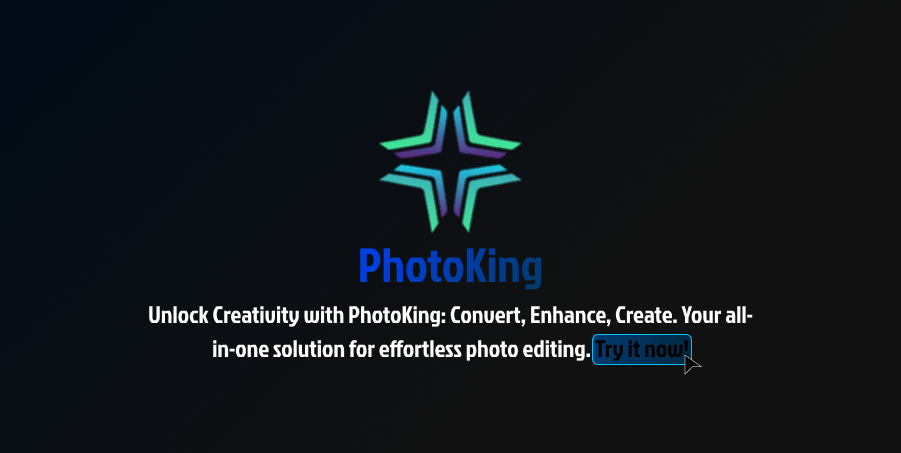
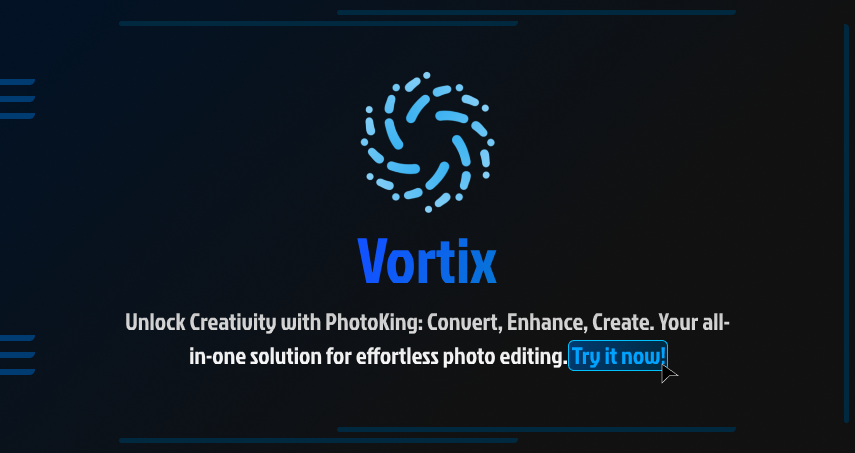
update

diff --git a/public/home.html b/public/home.html
@@ -1,31 +1,31 @@
 <!DOCTYPE html>
 <html lang="en">
     <head>
-            <meta charset="UTF-8">
-            <meta name="viewport" content="width=device-width, initial-scale=1.0">
-            <meta name="description" content="Experience seamless photo editing with PhotoKing. Convert formats, enhance quality, create pixel art, and more. Try it today!" />
-            <meta name="keywords" content="kaywords">
-            <link rel = "icon" href ="/photoking/public/assets/PhotoKing_Logo.png" type = "image/x-icon">
-            <meta property="og:type" content="iigreenfoxyt.github.io/photoking" />
-            <meta property="og:url" content="Experience seamless photo editing with PhotoKing. Convert formats, enhance quality, create pixel art, and more. Try it today!" />
-            <meta property="og:image" content="/photoking/public/assets/PhotoKing_Logo.png">
-            <meta name="theme-color" content="#05ECEC">
-            <meta name="twitter:card" content="summary_large_image">
-            <link rel="stylesheet" href="https://cdnjs.cloudflare.com/ajax/libs/font-awesome/5.15.3/css/all.min.css"/>
-            <link rel="stylesheet" href="main.css">
-            <link href="https://fonts.googleapis.com/css?family=Montserrat:500&display=swap" rel="stylesheet">
-            <link href="http://maxcdn.bootstrapcdn.com/font-awesome/4.1.0/css/font-awesome.min.css" rel="stylesheet">
-            <script src="https://cdn.jsdelivr.net/npm/@popperjs/core@2.10.2/dist/umd/popper.min.js" integrity="sha384-7+zCNj/IqJ95wo16oMtfsKbZ9ccEh31eOz1HGyDuCQ6wgnyJNSYdrPa03rtR1zdB" crossorigin="anonymous"></script>
-            <script src="https://cdn.jsdelivr.net/npm/bootstrap@5.1.3/dist/js/bootstrap.min.js" integrity="sha384-QJHtvGhmr9XOIpI6YVutG+2QOK9T+ZnN4kzFN1RtK3zEFEIsxhlmWl5/YESvpZ13" crossorigin="anonymous"></script>
-    
-        <title>PhotoKing Beta - Home</title>
+        <meta charset="UTF-8">
+        <meta name="viewport" content="width=device-width, initial-scale=1.0">
+        <meta name="description" content="Experience seamless photo editing with Vortix. Convert formats, enhance quality, create pixel art, and more. Try it today!" />
+        <meta name="keywords" content="kaywords">
+        <link rel = "icon" href ="/vortix/public/assets/Vortix_icon.png" type = "image/x-icon">
+        <meta property="og:type" content="iigreenfoxyt.github.io/vortix" />
+        <meta property="og:url" content="Experience seamless photo editing with Vortix. Convert formats, enhance quality, create pixel art, and more. Try it today!" />
+        <meta property="og:image" content="/vortix/public/assets/Banner.png">
+        <meta name="theme-color" content="#05ECEC">
+        <meta name="twitter:card" content="summary_large_image">
+        <link rel="stylesheet" href="https://cdnjs.cloudflare.com/ajax/libs/font-awesome/5.15.3/css/all.min.css"/>
+        <link rel="stylesheet" href="main.css">
+        <link href="https://fonts.googleapis.com/css?family=Montserrat:500&display=swap" rel="stylesheet">
+        <link href="http://maxcdn.bootstrapcdn.com/font-awesome/4.1.0/css/font-awesome.min.css" rel="stylesheet">
+        <script src="https://cdn.jsdelivr.net/npm/@popperjs/core@2.10.2/dist/umd/popper.min.js" integrity="sha384-7+zCNj/IqJ95wo16oMtfsKbZ9ccEh31eOz1HGyDuCQ6wgnyJNSYdrPa03rtR1zdB" crossorigin="anonymous"></script>
+        <script src="https://cdn.jsdelivr.net/npm/bootstrap@5.1.3/dist/js/bootstrap.min.js" integrity="sha384-QJHtvGhmr9XOIpI6YVutG+2QOK9T+ZnN4kzFN1RtK3zEFEIsxhlmWl5/YESvpZ13" crossorigin="anonymous"></script>
+        
+        <title>Vortix Beta - Home</title>
     </head>
     <body>
     
         <header>
             <div class="wrapper">
                 <div class="logo">
-                    <a href="index.html"><img src="/photoking/public/assets/PhotoKing_Logo.png" alt="PhotoKing_Logo"></a>
+                    <a href="index.html"><img src="/vortix/public/assets/Vortix_Logo.png" alt="Vortix_Logo"></a>
                 </div>
                 <div class="navbar">
                     <div class="close-nav"><button>×</button></div>
@@ -47,9 +47,13 @@
         <!-- Content -->
         <div class="banner">
             <div class="content">
-                <h1>PhotoKing</h1>
+                <h1>Vortix</h1>
                 <h3>Experience seamless photo editing with PhotoKing. Convert formats, enhance quality, create pixel art, and more.</h3>
+                <a href="#description"><button class="glow-on-hover" type="button">See More!</button></a>
             </div>
+        </div>
+        <div id="description" class="bx">
+            <h1>info</h1>
         </div>
 
         <!-- js sources important -->

diff --git a/public/main.css b/public/main.css
@@ -5,6 +5,7 @@
 *::after {
   box-sizing: border-box;
   line-height: 1.5em;
+  scroll-behavior: smooth;
 }
 
 body {
@@ -258,53 +259,127 @@ button {
   }
 
   .banner {
-    background: linear-gradient(to bottom right, #080025, #1a1a1a);
-    color: white ;
+    color: white;
     width: 100%;
     height: 500px;
+    display: flex;
+    justify-content: center;
     align-items: center;
     text-align: center;
-    position: absolute;
-    z-index: -1;
-    animation: gradientMove 20s linear infinite;
-  }
-  
-  @keyframes gradientMove {
-    0%, 100% {
-      background: linear-gradient(to bottom right, #080025, #1a1a1a);
-    }
-    25% {
-      background: linear-gradient(to bottom right, #1a1a1a, #080025);
-    }
-    50% {
-      background: linear-gradient(to bottom right, #1a1a1a, #080025);
-    }
-    75% {
-      background: linear-gradient(to bottom right, #080025, #1a1a1a);
-    }
-  }
-  
-  @keyframes blurBackground {
-    0%, 100% {
-      backdrop-filter: blur(10px);
-    }
-    25% {
-      backdrop-filter: blur(5px);
-    }
-    50% {
-      backdrop-filter: blur(15px);
-    }
-    75% {
-      backdrop-filter: blur(5px);
-    }
-  }
-  
+    background: linear-gradient(320deg, #01314d, #1c1e20);
+    background-size: 400% 400%;
 
+    -webkit-animation: MoveingColors 20s ease infinite;
+    -moz-animation: MoveingColors 20s ease infinite;
+    animation: MoveingColors 10s ease infinite;
+  }
+  
+  @-webkit-keyframes MoveingColors {
+    0%{background-position:0% 2%}
+    50%{background-position:100% 99%}
+    100%{background-position:0% 2%}
+}
+@-moz-keyframes MoveingColors {
+    0%{background-position:0% 2%}
+    50%{background-position:100% 99%}
+    100%{background-position:0% 2%}
+}
+@keyframes MoveingColors {
+    0%{background-position:0% 2%}
+    50%{background-position:100% 99%}
+    100%{background-position:0% 2%}
+}
+  
+  .content {
+    max-width: 800px;
+    padding: 2rem;
+    text-align: center;
+  }
+  
   .content h1 {
-    padding-top: 10rem;
+    margin: 0;
+    padding-top: 2rem;
+    font-size: 3rem;
+  }
+  
+  .content h3 {
+    margin: 0;
+    padding-top: 1rem;
+    font-size: 1.5rem;
   }
 
-  .content h3 {
-    width: 580px;
-    margin-left: 13rem;
-  }
+
+
+  .glow-on-hover {
+    width: 220px;
+    height: 50px;
+    border: none;
+    outline: none;
+    color: #fff;
+    background: #111;
+    cursor: pointer;
+    position: relative;
+    z-index: 0;
+    border-radius: 10px;
+}
+
+.glow-on-hover:before {
+    content: '';
+    background: linear-gradient(45deg, #0058fc, #0099ff, #00375c, #48ff00, #00ffd5, #002bff, #7a00ff, #ff00c8, #ff0000);
+    position: absolute;
+    top: -2px;
+    left:-2px;
+    background-size: 400%;
+    z-index: -1;
+    filter: blur(5px);
+    width: calc(100% + 4px);
+    height: calc(100% + 4px);
+    animation: glowing 20s linear infinite;
+    opacity: 0;
+    transition: opacity .3s ease-in-out;
+    border-radius: 10px;
+}
+
+.glow-on-hover:active {
+    color: #000
+}
+
+.glow-on-hover:active:after {
+    background: transparent;
+}
+
+.glow-on-hover:hover:before {
+    opacity: 1;
+}
+
+.glow-on-hover:after {
+    z-index: -1;
+    content: '';
+    position: absolute;
+    width: 100%;
+    height: 100%;
+    background: #111;
+    left: 0;
+    top: 0;
+    border-radius: 10px;
+}
+
+@keyframes glowing {
+    0% { background-position: 0 0; }
+    50% { background-position: 400% 0; }
+    100% { background-position: 0 0; }
+}
+
+.bx {
+  display: contents;
+}
+
+.bx h1 {
+  background-color: #111111;
+  color: white;
+  text-align: center;
+  margin:auto;
+  margin-top: 13px ;
+  width:130px;
+  border-radius: 5px;
+}

diff --git a/public/index.html b/public/index.html
@@ -3,12 +3,12 @@
     <head>
         <meta charset="UTF-8">
         <meta name="viewport" content="width=device-width, initial-scale=1.0">
-        <meta name="description" content="Experience seamless photo editing with PhotoKing. Convert formats, enhance quality, create pixel art, and more. Try it today!" />
+        <meta name="description" content="Experience seamless photo editing with Vortix. Convert formats, enhance quality, create pixel art, and more. Try it today!" />
         <meta name="keywords" content="kaywords">
-        <link rel = "icon" href ="/photoking/public/assets/PhotoKing_Logo.png" type = "image/x-icon">
-        <meta property="og:type" content="iigreenfoxyt.github.io/photoking" />
-        <meta property="og:url" content="Experience seamless photo editing with PhotoKing. Convert formats, enhance quality, create pixel art, and more. Try it today!" />
-        <meta property="og:image" content="/photoking/public/assets/PhotoKing_Logo.png">
+        <link rel = "icon" href ="/vortix/public/assets/Vortix_icon.png" type = "image/x-icon">
+        <meta property="og:type" content="iigreenfoxyt.github.io/Vortix" />
+        <meta property="og:url" content="Experience seamless photo editing with Vortix. Convert formats, enhance quality, create pixel art, and more. Try it today!" />
+        <meta property="og:image" content="/vortix/public/assets/Banner.png">
         <meta name="theme-color" content="#05ECEC">
         <meta name="twitter:card" content="summary_large_image">
         <link rel="stylesheet" href="https://cdnjs.cloudflare.com/ajax/libs/font-awesome/5.15.3/css/all.min.css"/>
@@ -18,13 +18,13 @@
         <script src="https://cdn.jsdelivr.net/npm/@popperjs/core@2.10.2/dist/umd/popper.min.js" integrity="sha384-7+zCNj/IqJ95wo16oMtfsKbZ9ccEh31eOz1HGyDuCQ6wgnyJNSYdrPa03rtR1zdB" crossorigin="anonymous"></script>
         <script src="https://cdn.jsdelivr.net/npm/bootstrap@5.1.3/dist/js/bootstrap.min.js" integrity="sha384-QJHtvGhmr9XOIpI6YVutG+2QOK9T+ZnN4kzFN1RtK3zEFEIsxhlmWl5/YESvpZ13" crossorigin="anonymous"></script>
         
-        <title>Photo king Beta</title>
+        <title>Vortix Beta</title>
     </head>
     <body>
       <header>
         <div class="wrapper">
             <div class="logo">
-                <a href="index.html"><img src="/photoking/public/assets/PhotoKing_Logo.png" alt="PhotoKing_Logo"></a>
+                <a href="index.html"><img src="/vortix/public/assets/Vortix_Logo.png" alt="Vortix_Logo"></a>
             </div>
             <div class="navbar">
                 <div class="close-nav"><button>×</button></div>
@@ -48,7 +48,7 @@
           <label for="imageInput" class="custom-file-upload">Choose File</label>
             <input type="file" id="imageInput" accept="image/*" style="display: none;">
           <div id="imageContainer">
-            <img id="previewImage" src="/photoking/public/assets/yourimage.png" alt="Preview">
+            <img id="previewImage" src="/vortix/public/assets/yourimge.png" alt="Preview">
           </div>
           <button id="removeButton">Remove Background</button>
           <div id="progressBar">
